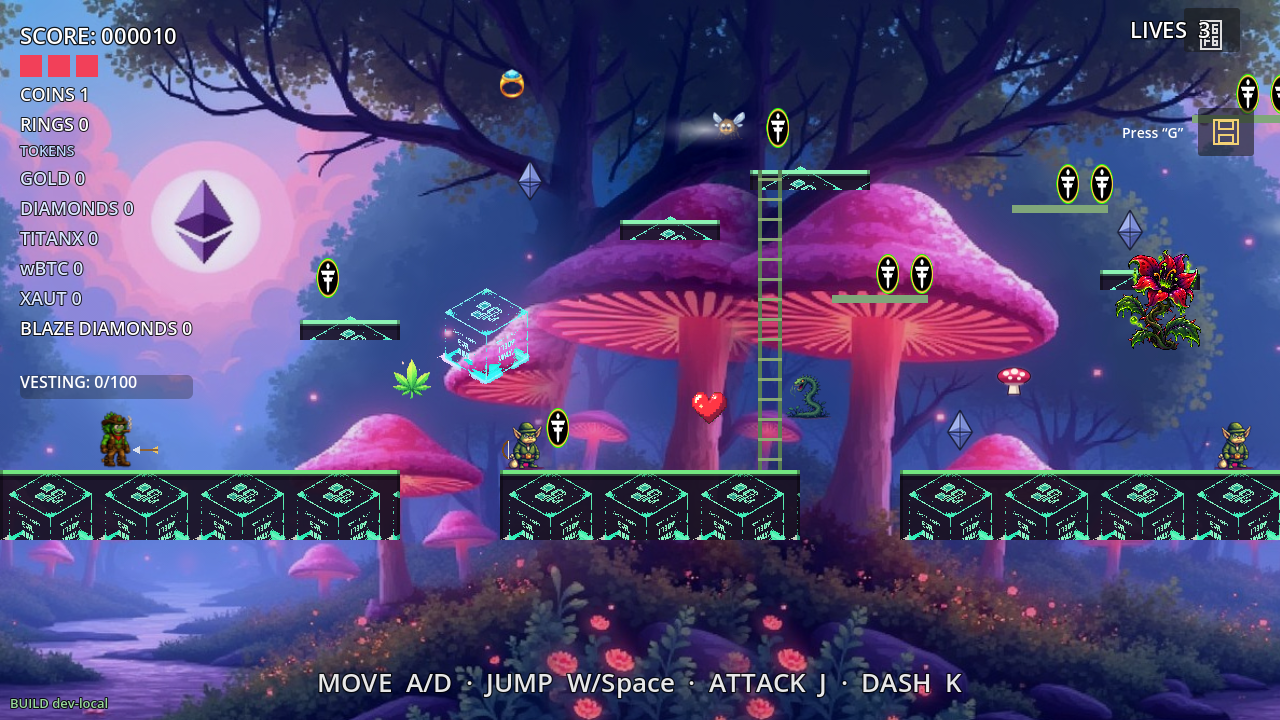
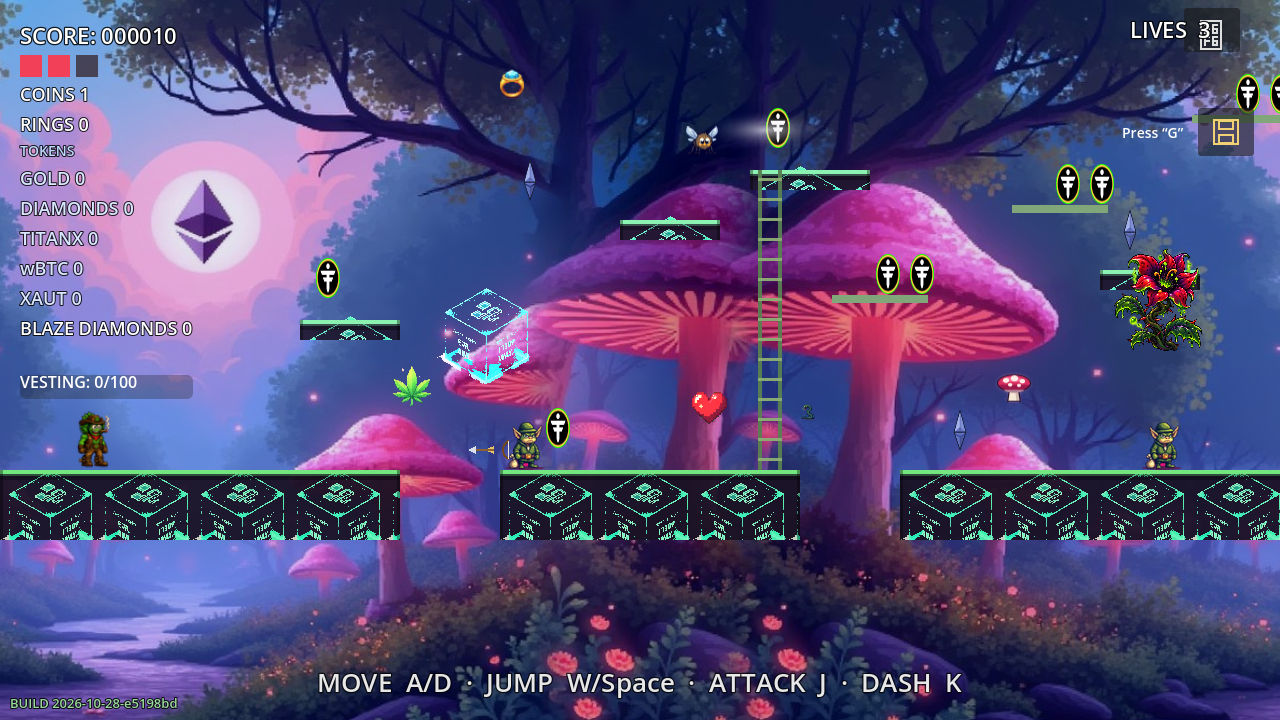
Verify final combined Episode 2 export and camera continuity

diff --git a/docs/episode2-quality/world-voice-music-20261029/REVIEW.md b/docs/episode2-quality/world-voice-music-20261029/REVIEW.md
@@ -33,3 +33,5 @@ Full workflow headless suite completed through `scripts/ci-gates-local.sh`; all 
 Release integration: master advanced to 5f908771 with the concurrent 49564e8d lake-life, enlarged basin and player-map-marker work. All those changes are retained. Production 40736490312 attempt 2 passed its complete gameplay block, camera proofs, export and security audit, but exhausted its 45-minute job limit on the secondary gh-pages mirror before butler ran. A verified same-source artifact from successful branch run 40736486366 was uploaded with checksum-pinned butler 15.28.0 (55.14 MiB fresh, itch build 2236753); it is an intermediate release, not the final merged source. The mirror now omits both packs over GitHub's per-file cap and has a 3-minute nonblocking bound. Primary itch packaging/upload keeps both fresh packs and all gameplay/security checks unchanged. Final combined-source publication and public BUILD proof follow in the release receipt.
 
 Merged source checks pass: lake art 27, lake life 0 failed, world routes 26, complete trail and Logan story, region map 10. New actual Compatibility camera captures replace the earlier pictures and show the expanded concurrent lake basin through the same continuous handoff. Prior full CI/native results remain applicable to unchanged cast/audio, town, lift and shared systems.
+
+Final merged local export is stamped 2026-10-28-e5198bd, contains both sessions' game code, and passes Chromium boot/Stage 1 gameplay with the expected tag. Focused residual checks remain 163/163 after the merge. Main pack 197533616 bytes; extras 127826144 bytes.
